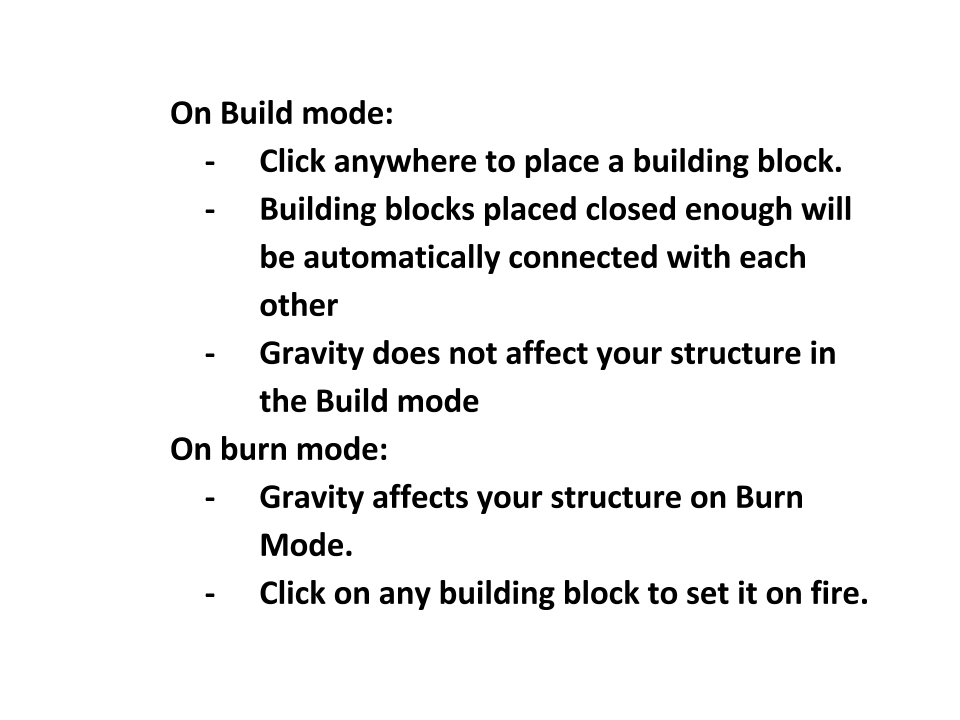
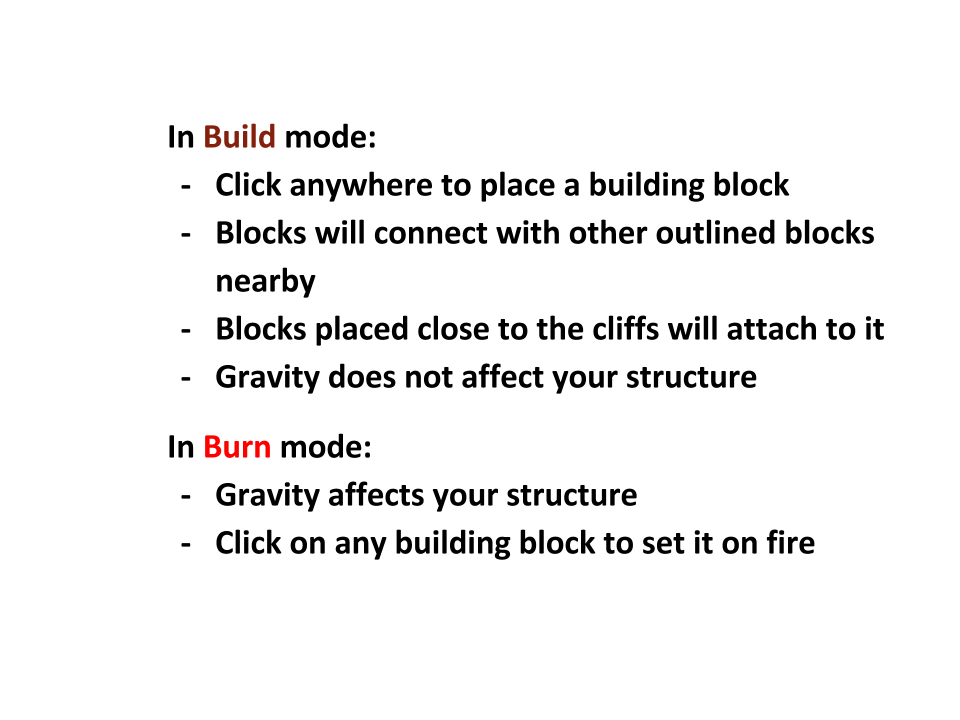
Burned pieces turn to ash, deleted some comments that aren't necessary, edited the instructions balloon

Changed region(s): [[0.1562, 0.1222, 0.9375, 0.5806], [0.2188, 0.6722, 0.9062, 0.8556], [0.1562, 0.6111, 0.4062, 0.6417]]

diff --git a/core/src/com/mygdx/game/GraphicalObjects/BridgeUnit.java b/core/src/com/mygdx/game/GraphicalObjects/BridgeUnit.java
@@ -35,6 +35,7 @@ public class BridgeUnit extends Actor{
     private boolean isBurnt;
     boolean createdByPlayer;
     private Texture alternative = new Texture("PaperUser.png");
+    private Texture ash = new Texture("ash.png");
 
     public BridgeUnit(Material material, World world, float xPosition, float yPosition, ParticleEffect fireEffect){
 
@@ -95,17 +96,12 @@ public class BridgeUnit extends Actor{
         setBounds(sprite.getX(), sprite.getY(), getWidth(), getHeight());
         sprite.draw(batch);
 
-        if (durability == 2){
+        if (durability <= 2){
             body.setActive(false);
             body.setActive(true);
-            //remove();
-            //body.getWorld().destroyBody(this.getBody());
-            //body = null;
-
-        }
-        if(durability == 0) {
-
             isOnFire = false;
+            changeTexture(ash);
+
         }
 
         body.applyAngularImpulse((float) Math.random(), true);
@@ -136,7 +132,7 @@ public class BridgeUnit extends Actor{
     public boolean getIsBurnt(){return this.isBurnt;}
 
     public void changeTexture(Texture newTexture){
-        sprite.set(new Sprite(newTexture));
+        sprite.setTexture(newTexture);
     }
 
     public void setIsOnFire(boolean b){this.isOnFire = b;}

diff --git a/core/src/com/mygdx/game/FireHandler.java b/core/src/com/mygdx/game/FireHandler.java
@@ -3,7 +3,6 @@ package com.mygdx.game;
 import com.badlogic.gdx.physics.box2d.JointEdge;
 import com.badlogic.gdx.utils.Array;
 import com.mygdx.game.GraphicalObjects.BridgeUnit;
-import com.mygdx.game.GraphicalObjects.BridgeUnitLink;
 import com.mygdx.game.PhysicalObjects.BridgeJoint;
 import java.util.ArrayList;
 
@@ -79,6 +78,7 @@ public class FireHandler {
 
         for(BridgeUnit b : bridgeUnits){
             if(b.getIsBurnt()){
+                //System.out.println("b is burnt!");
                 if(!burntBridgeUnits.contains(b)) {
                     burntBridgeUnits.add(b);
                 }

diff --git a/core/src/com/mygdx/game/MainMenuScreen.java b/core/src/com/mygdx/game/MainMenuScreen.java
@@ -69,11 +69,6 @@ public class MainMenuScreen implements Screen {
         splash.draw(batch);
         batch.end();
 
-        //Gdx.gl.glClearColor(0, 0, 0, 1);
-        //Gdx.gl.glClear(GL20.GL_COLOR_BUFFER_BIT);
-
-
-
         stage.act();
         stage.draw();
 
